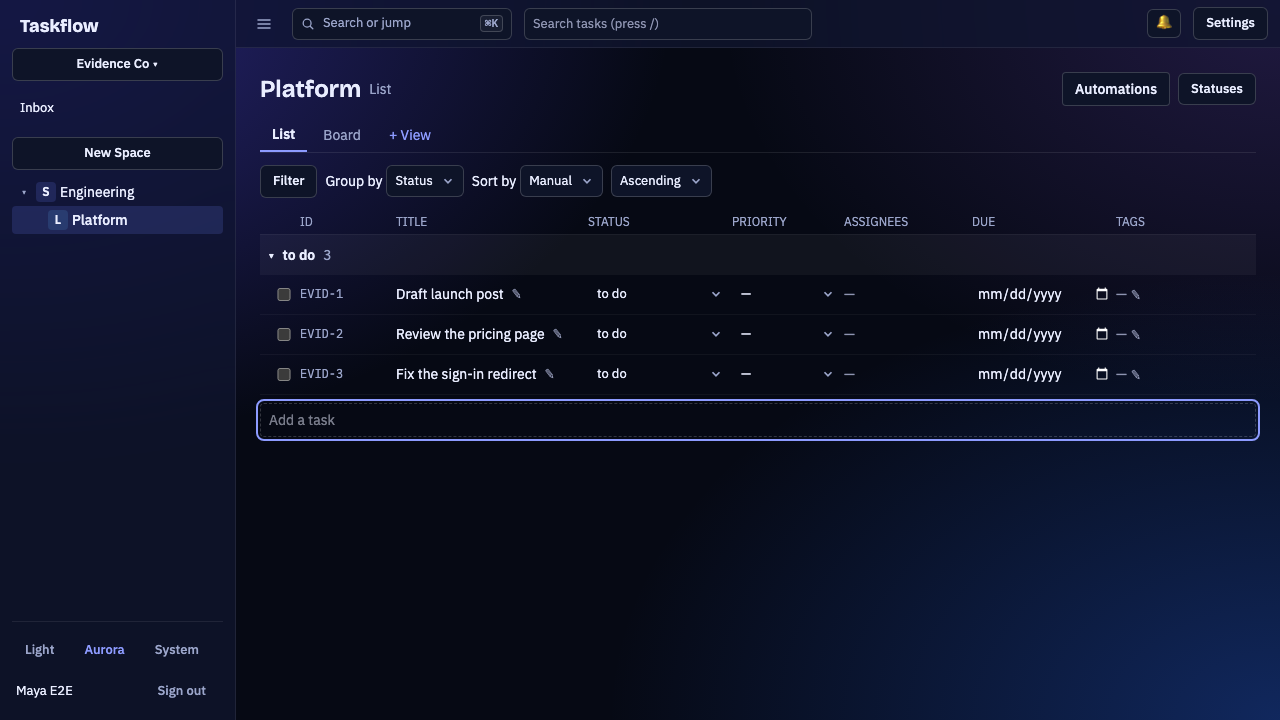
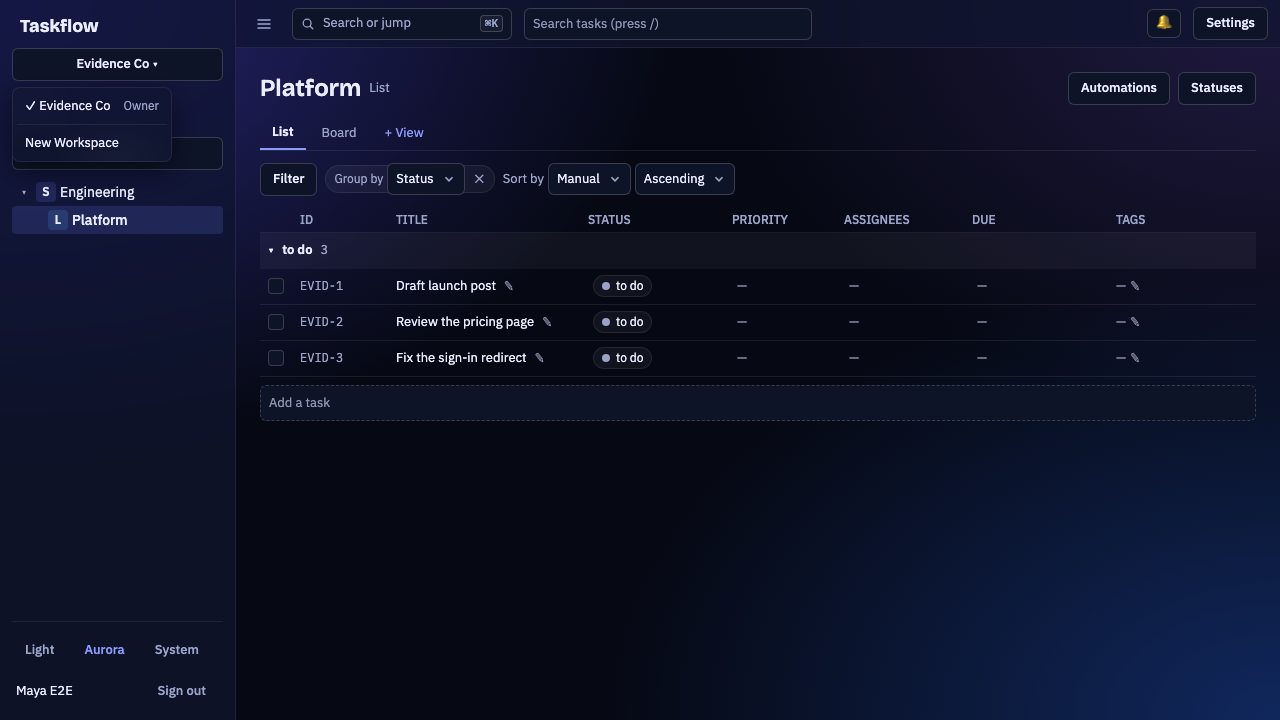
S8: Evidence: real shell shots, new List shots, slice-3 report fix
The slice-3 "Shell (sidebar open)" shots were byte-identical to the List shots. snap() now returns the PNG bytes and theme-screens opens the workspace switcher before the shell shot and asserts it differs from the List shot in every theme and OS scheme. It also adds the status editor, chip bar with save bar, bulk bar and shortcut sheet shots, each with an axe color-contrast scan, and the committed slice-3 shell PNGs and report text are replaced. The dead-entry scan found no legacy-bridge entry that became dead.

Claude-Session: https://claude.ai/code/session_01DKJKfmqtWQEa8mMfo81C4S

diff --git a/frontend/e2e/theme-screens.spec.ts b/frontend/e2e/theme-screens.spec.ts
@@ -62,9 +62,62 @@ for (const os of OS_SCHEMES)
       seenBackgrounds.set(theme, ground)
       const other = seenBackgrounds.get(theme === 'light' ? 'dark' : 'light')
       if (other) expect(ground).not.toBe(other)
-      await snap(page, testInfo, `list-${theme}${suffix}`)
+      const list = await snap(page, testInfo, `list-${theme}${suffix}`)
       await expectNoContrastViolations(page, `list-${theme}${suffix}`)
-      await snap(page, testInfo, `shell-${theme}${suffix}`)
+
+      // The shell shot shows the shell: the workspace switcher is open, so it can never equal the List shot.
+      await page.getByRole('button', { name: 'Workspace switcher' }).click()
+      await expect(page.getByRole('menu')).toBeVisible()
+      const shell = await snap(page, testInfo, `shell-${theme}${suffix}`)
+      expect(
+        shell.equals(list),
+        `shell-${theme}${suffix} must differ from list-${theme}${suffix}`,
+      ).toBe(false)
+      await expectNoContrastViolations(page, `shell-${theme}${suffix}`)
+      await page.keyboard.press('Escape')
+      await expect(page.getByRole('menu')).toHaveCount(0)
+
+      // Slice 4: a status editor open, the chip bar with the save bar, the bulk bar and the shortcut sheet.
+      const draft = page.getByRole('row').filter({ hasText: 'Draft launch post' })
+      await draft.getByLabel(/^Status of/).click()
+      await expect(page.getByRole('option', { name: 'in progress', exact: true })).toBeVisible()
+      await snap(page, testInfo, `list-editor-${theme}${suffix}`)
+      await expectNoContrastViolations(page, `list-editor-${theme}${suffix}`)
+      await page.keyboard.press('Escape')
+      await expect(page.getByRole('option', { name: 'in progress', exact: true })).toHaveCount(0)
+
+      await page.getByRole('button', { name: 'Filter' }).click()
+      await page.getByRole('button', { name: '+ Add filter' }).click()
+      const chip = page.getByRole('button', { name: /^Priority is any of/ }).first()
+      await expect(chip).toBeVisible()
+      await expect(page.getByRole('group', { name: 'Unsaved view changes' })).toBeVisible()
+      await snap(page, testInfo, `chip-bar-${theme}${suffix}`)
+      await expectNoContrastViolations(page, `chip-bar-${theme}${suffix}`)
+      await page.getByRole('button', { name: /^Remove Priority is any of/ }).click()
+      await expect(chip).toBeHidden()
+      await expect(page.getByRole('group', { name: 'Unsaved view changes' })).toBeHidden()
+      await page.getByRole('button', { name: 'Filter', exact: true }).click()
+      await expect(page.getByLabel('Filter field')).toHaveCount(0)
+
+      await page.getByRole('checkbox', { name: 'Select Draft launch post' }).click()
+      await page.getByRole('checkbox', { name: 'Select Review the pricing page' }).click()
+      await expect(page.getByRole('toolbar', { name: 'Bulk actions' })).toBeVisible()
+      await snap(page, testInfo, `bulk-bar-${theme}${suffix}`)
+      await expectNoContrastViolations(page, `bulk-bar-${theme}${suffix}`)
+      await page.getByRole('button', { name: 'Clear' }).click()
+
+      await page
+        .getByRole('row')
+        .filter({ hasText: 'Draft launch post' })
+        .locator('[data-task-id]')
+        .focus()
+      await page.keyboard.press('?')
+      const sheet = page.getByRole('dialog', { name: 'Keyboard shortcuts' })
+      await expect(sheet).toBeVisible()
+      await snap(page, testInfo, `shortcuts-${theme}${suffix}`)
+      await expectNoContrastViolations(page, `shortcuts-${theme}${suffix}`)
+      await page.keyboard.press('Escape')
+      await expect(sheet).toHaveCount(0)
 
       await page.keyboard.press('ControlOrMeta+k')
       const dialog = page.getByRole('dialog', { name: 'Command palette' })

diff --git a/frontend/e2e/screenshots.ts b/frontend/e2e/screenshots.ts
@@ -5,9 +5,9 @@ import type { Page, TestInfo } from '@playwright/test'
 /**
  * Takes a full-page screenshot. It is always attached to the test report; when E2E_SCREENSHOTS_DIR is set
  * (scripts/e2e-local.sh sets it to artifacts/screenshots) it is also written to `<dir>/<name>.png`.
- * Elements marked `data-testid="timestamp"` or `<time>` are masked so a re-run does not churn the files.
+ * It returns the PNG bytes, so a spec can assert two shots differ. Elements marked `data-testid="timestamp"` or `<time>` are masked so a re-run does not churn the files.
  */
-export async function snap(page: Page, testInfo: TestInfo, name: string) {
+export async function snap(page: Page, testInfo: TestInfo, name: string): Promise<Buffer> {
   const body = await page.screenshot({
     fullPage: true,
     animations: 'disabled',
@@ -19,4 +19,5 @@ export async function snap(page: Page, testInfo: TestInfo, name: string) {
     await mkdir(dir, { recursive: true })
     await writeFile(path.join(dir, `${name}.png`), body)
   }
+  return body
 }

diff --git a/docs/ui/slices/slice-3.md b/docs/ui/slices/slice-3.md
@@ -59,7 +59,7 @@ shell fills the window, so nothing extends past the sidebar and the top bar.
 
 | Screen | Light | Dark (Aurora) | Before (slice 2) |
 |---|---|---|---|
-| Shell (sidebar open) | ![Shell (sidebar open) light](slice-3/shell-light.png) | ![Shell (sidebar open) dark](slice-3/shell-dark.png) | [before](slice-2/list-light.png) / [before dark](slice-2/list-dark.png) (the slice-2 shell around the List) |
+| Shell (sidebar open, workspace switcher open) | ![Shell (sidebar open) light](slice-3/shell-light.png) | ![Shell (sidebar open) dark](slice-3/shell-dark.png) | [before](slice-2/list-light.png) / [before dark](slice-2/list-dark.png) (the slice-2 shell around the List) |
 | List view | ![List view light](slice-3/list-light.png) | ![List view dark](slice-3/list-dark.png) | [before](slice-2/list-light.png) / [before dark](slice-2/list-dark.png) |
 | Open command palette | ![Open command palette light](slice-3/palette-light.png) | ![Open command palette dark](slice-3/palette-dark.png) | new in slice 3 |
 | Task panel | ![Task panel light](slice-3/task-panel-light.png) | ![Task panel dark](slice-3/task-panel-dark.png) | [before](slice-2/task-panel-light.png) / [before dark](slice-2/task-panel-dark.png) |
@@ -70,6 +70,10 @@ shell fills the window, so nothing extends past the sidebar and the top bar.
 | Inbox | ![Inbox light](slice-3/inbox-light.png) | ![Inbox dark](slice-3/inbox-dark.png) | [before](slice-2/inbox-light.png) / [before dark](slice-2/inbox-dark.png) |
 | Service accounts | ![Service accounts light](slice-3/service-accounts-light.png) | ![Service accounts dark](slice-3/service-accounts-dark.png) | [before](slice-2/service-accounts-light.png) / [before dark](slice-2/service-accounts-dark.png) |
 | /design | ![/design light](slice-3/design-light.png) | ![/design dark](slice-3/design-dark.png) | [before](slice-2/design-light.png) / [before dark](slice-2/design-dark.png) |
+
+The two Shell shots were recaptured in slice 4: the originals were byte-identical to the List shots (the shot ran right
+after the List shot with no state change). They now show the shell with the workspace switcher open, and
+`e2e/theme-screens.spec.ts` asserts that each shell shot differs from the List shot. The List inside them is the slice-4 List.
 
 ## Slice-2 carry-overs
 | Carry-over | Status |
